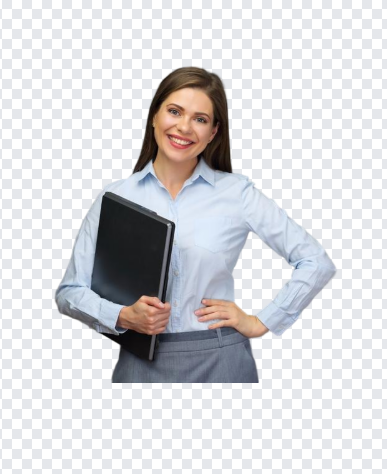
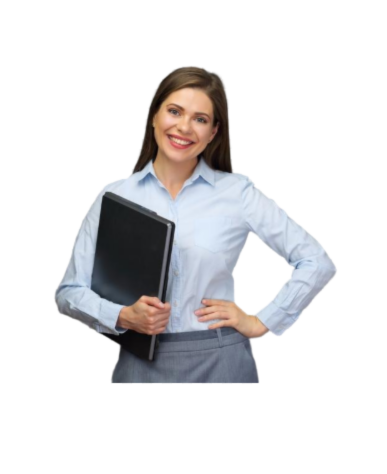
fix(topnav): restore /signin links, no longer redirect to GitHub

diff --git a/components/TopNav.tsx b/components/TopNav.tsx
@@ -72,17 +72,15 @@ export function TopNav({ active = null, badge, variant = "light" }: Props) {
       </div>
 
       <div className="ml-auto flex items-center gap-4">
-        <a
-          href="https://github.com/useknockout/api"
-          target="_blank"
-          rel="noopener noreferrer"
+        <Link
+          href="/signin"
           className={`hidden sm:inline text-[13px] font-medium ${
             dark ? "text-kno-white" : "text-kno-black"
           }`}
         >
           Sign in
-        </a>
-        <Button href="https://github.com/useknockout/api" variant="primary" size="sm">
+        </Link>
+        <Button href="/signin?redirect=/dashboard/keys" variant="primary" size="sm">
           Get token →
         </Button>
       </div>